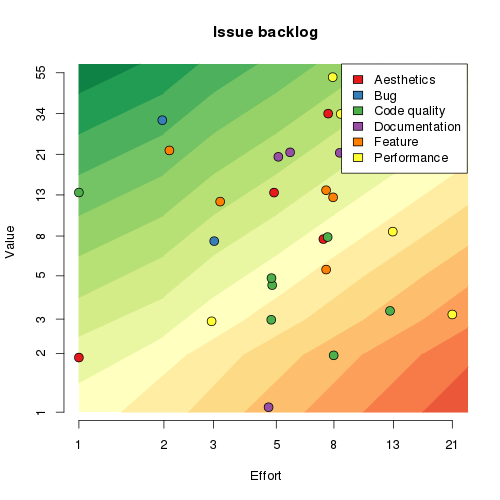
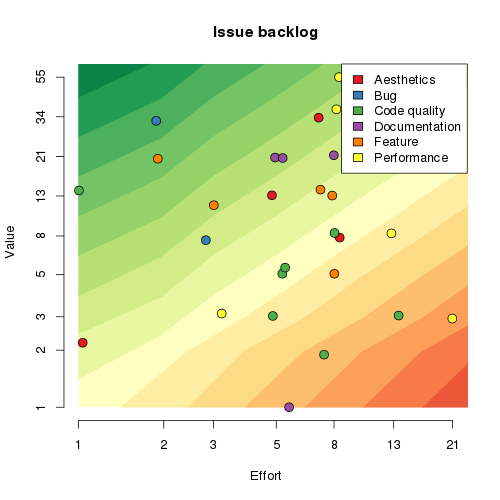
Regenerate md file

diff --git a/doc/backlog/backlog.md b/doc/backlog/backlog.md
@@ -1,5 +1,5 @@
 # Backlog
-
+![Issue backlog](backlog.png)
 | Issue | Description | Value | Effort | ROI | Blocked by |
 | ----: | ----------- | ----: | -----: | --: | ---------: |
 | [163](https://github.com/timgurto/mmo/issues/163) | Create generic particle system | 8 | 8 | 0 | 60 |
